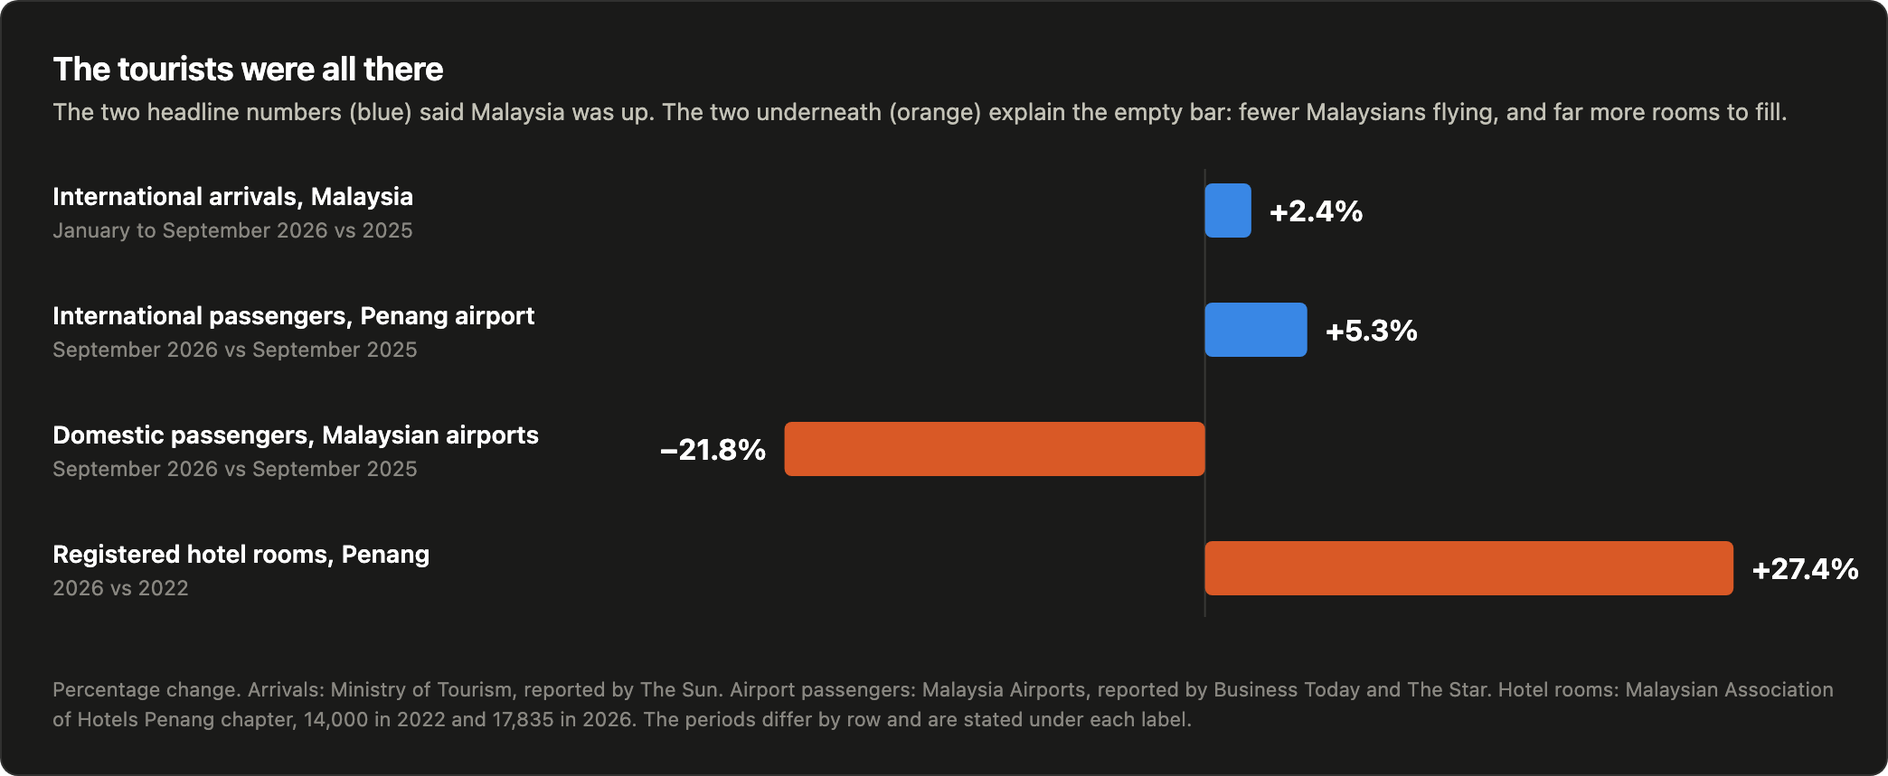
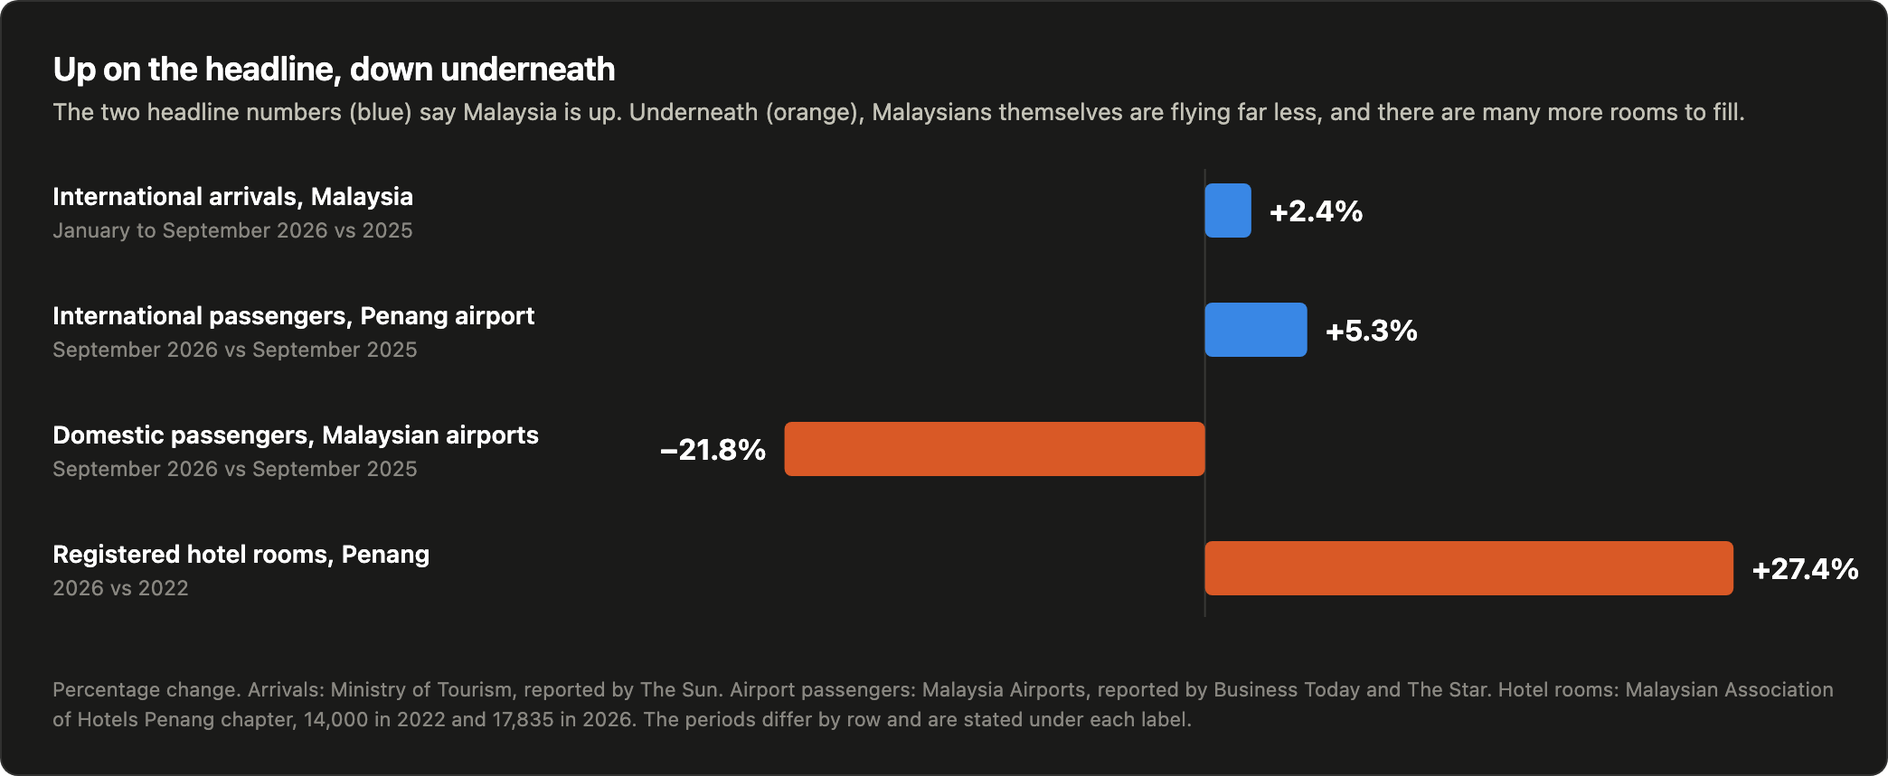
Frailty article: reframe around fuel, AI job loss and tourism economies; like-for-like hotel occupancy chart

Changed region(s): [[0.0311, 0.0605, 0.9339, 0.1816]]

diff --git a/app/writing/content/the-frailty-in-the-economics-of-ai.html b/app/writing/content/the-frailty-in-the-economics-of-ai.html
@@ -39,122 +39,122 @@
   <figcaption>In a tea plantation, I felt this counted as data.</figcaption>
 </figure>
 
-<h2>I came home with a theory</h2>
-
-<p>It was a good one. I have an economics degree and it shows.</p>
+<h2>Two blades</h2>
 
 <figure>
   <img src="/writing/the-frailty-in-the-economics-of-ai/frailty-land-rover.jpg" alt="Two travellers leaning on a green Land Rover at a hill viewpoint in the Cameron Highlands, one giving a thumbs up.">
   <figcaption>The research team, in the field. Confidence was high.</figcaption>
 </figure>
 
-<p>The war in Ukraine had dragged on for years. Then came the war between the United States and Iran, and fuel went through the roof. And on top of that, the AI boom: layoffs, hiring freezes, and a middle class, the people who take exactly this kind of trip, quietly cancelling it.</p>
+<p>I have an economics degree, so I did what we do. I drew a line from an empty bar to the global economy before the ice had melted.</p>
 
-<p>Wars, fuel, AI. Three causes, one empty bar. It had a beginning, a middle and a villain. I was ready to write it.</p>
+<p>I still think the line is right. It has two blades.</p>
 
-<p>Then I looked up the numbers, which is the half of my job I am supposed to do first.</p>
+<p>The first is fuel. When the war between the United States and Iran began, jet fuel in Singapore rose 140% in a week and touched about $230 a barrel, a record. Airlines doubled their fuel surcharges. UN Tourism, which had expected international travel to grow 3% to 4% this year, cut that to 1% to 2%. In the first half of 2026 the whole world managed 0.4%, and the second quarter went backwards. Thailand's arrivals are down 4.6% this year. Asia is still 11% short of where it was in 2019.</p>
 
-<p>Malaysia recorded 32.3 million international arrivals between January and September, up 2.4% on last year. Penang's airport carried 5.3% more international passengers in September, the month I was there, than a year earlier. The tourists I had declared missing were, on the official count, all present. Just not on a Thursday.</p>
+<p>A holiday that costs more gets taken by fewer people. That part is not complicated.</p>
 
-<p>Parts of my theory survived. Jet fuel in Singapore did hit a record, about $230 a barrel, and Thailand's arrivals are down 4.6% this year. But crude oil never reached its 2008 peak, and I could find nothing connecting AI layoffs to anyone's holiday in Penang. Malaysia's visitors come mostly from Singapore, China and Indonesia. About half of them are Singaporeans crossing a causeway, which is less a holiday than a commute with better food. None of them, as far as I can tell, were laid off by a chatbot.</p>
+<p>The second blade is the one I work with every day.</p>
 
-<p>So what had I walked into?</p>
+<h2>The blade I am holding</h2>
+
+<p>This year technology companies cut more than 206,000 jobs while putting an estimated $700 billion into AI infrastructure. Of all the job cuts announced in the United States through October, 121,401 named AI as the reason, about one in five. Stanford researchers, as reported, find employment in the occupations most exposed to AI running 19% below comparable fields.</p>
+
+<p>I am not reading about this from a safe distance. I am one of the reasons.</p>
+
+<p>I run product operations for a startup, alone, with no dedicated engineer. Last week I published an article about it. This year, with AI doing the typing, I have been the product manager, the data scientist, the data engineer, the designer, the quality analyst and three other people. I wrote, with some pride, that a few years ago each of those was a different person. Our service team now handles 2.8 times the customer moves it handled in January, with the same nine or so agents.</p>
+
+<p>Nobody was laid off. Nobody was hired either.</p>
+
+<p>My laptop tells me what the help costs. Four days of it, about 181 million tokens of reading and writing, comes to $114.37 at list price. There is no salary on earth that competes with that, and I say so as someone who would quite like to keep his.</p>
+
+<p>So count the people who did not get those jobs. They are not on a flight to Penang. They are not the second table at the highest rated restaurant on the island.</p>
+
+<h2>The fallacy</h2>
+
+<p>Economics has a name for this, and it is older than any of the technology. It is the fallacy of composition: what is sensible for one is ruinous when everyone does it.</p>
+
+<p>One company replacing a role with software is being prudent. Every company doing it at once is quietly deleting its own customers, because every wage it saves was somebody else's revenue.</p>
+
+<p>The union leader Walter Reuther used to tell a story about touring a newly automated car plant in the 1950s. An executive pointed at the machines and asked how he planned to collect union dues from them. Reuther asked how the company planned to get them to buy cars. (The version where the executive is Henry Ford II is better known and almost certainly embroidered. The question survives either way.)</p>
+
+<p>That is the frailty in the economics of AI. We are getting better at making things at exactly the rate we are getting worse at paying the people who buy them. It is progress, and it is also the other thing. A sword with two edges, and we are holding it by the blade.</p>
+
+<h2>Why the bar goes first</h2>
+
+<p>Tourism is what people buy with what is left over. Nobody cancels the rent to keep the holiday. So when incomes thin and fares rise, the trip is the first thing to go, and a place that lives on trips is the first to feel it.</p>
+
+<p>Malaysia is that kind of place. Tourism industries are 15.9% of its economy and employ 3.7 million people, 22.1% of everyone with a job. A bar in George Town is not a side effect of the economy. It is the economy.</p>
+
+<p>Statisticians, my other tribe, use the word frailty for a hidden weakness that decides who goes first when a population is put under strain. The average keeps looking healthy for a surprisingly long time, because the frail drop out quietly and the survivors are the ones still being counted.</p>
+
+<h2>What the numbers will and will not let me say</h2>
+
+<p>I would be a poor analyst if I stopped there, so here is the part that argues with me.</p>
+
+<p>Malaysia recorded 32.3 million international arrivals from January to September, up 2.4% on last year. Penang's airport carried 5.3% more international passengers in September, the month I was there. On the headline, tourism is not dying. It is fine.</p>
 
 <figure>
   <img src="/writing/the-frailty-in-the-economics-of-ai/frailty-average.png" alt="Four bars. International arrivals to Malaysia up 2.4%, international passengers at Penang airport up 5.3%, domestic passengers at Malaysian airports down 21.8%, registered hotel rooms in Penang up 27.4% since 2022.">
 </figure>
 
-<p>Domestic air travel in Malaysia fell 21.8% in September, and Penang's hotels live on domestic guests. The island has gone from 14,000 registered hotel rooms in 2022 to 17,835 now. More beds, fewer of the people who usually fill them.</p>
+<p>Then look at who is being counted. About half of those arrivals are Singaporeans crossing a causeway, which is less a holiday than a commute with better food. And domestic air travel, Malaysians flying around their own country, fell 21.8% in September. The local middle class is the customer Penang's hotels depend on, and it stayed home.</p>
 
-<p>And the ones who did come all came at once.</p>
+<p>The hotels show it, once you compare like with like.</p>
 
 <figure>
-  <img src="/writing/the-frailty-in-the-economics-of-ai/frailty-occupancy.png" alt="Hotel occupancy in Penang in 2026: about 60% on average in August, about 70% on an ordinary weekday, and 90% to 100% on a long weekend in late May.">
+  <img src="/writing/the-frailty-in-the-economics-of-ai/frailty-occupancy.png" alt="Average hotel occupancy in Malaysia: 54.9% in 2024, 56.8% in 2025, then 54.1% in the first half of 2025 against 51.2% in the first half of 2026, while room supply rose from 343,866 to 350,069.">
 </figure>
 
-<p>Penang was not dead. Penang was full on the days I was not there.</p>
+<p>Occupancy rose from 54.9% in 2024 to 56.8% in 2025. Then the first half of 2026 came in at 51.2%, against 54.1% for the same months a year earlier. The number of rooms never fell. It went up every year, from 343,866 to 350,069. In Penang the hotel association's registered rooms have grown from 14,000 in 2022 to 17,835, and its chairman put occupancy at about 60% in August.</p>
 
-<p>And in fairness to Kuala Lumpur, I also took this.</p>
+<p>More rooms, fewer of them filled, in the year the fuel went up and the hiring slowed.</p>
+
+<p>Now the honest limits. I cannot show you a line from a redundancy in San Francisco to an empty table in Penang. Nobody has that data. Some of what I saw is Penang building hotels faster than it can fill them. The Kuala Lumpur lane below was busy, and I took the photo myself. And the economists who went looking for a spike in graduate unemployment this summer did not find one.</p>
 
 <figure>
   <img src="/writing/the-frailty-in-the-economics-of-ai/frailty-kl-lane.jpg" alt="A pedestrian lane in Kuala Lumpur with café tables occupied and a crowd of people walking in the background.">
-  <figcaption>One lane, one afternoon, actual humans. It did not make it into my theory, which tells you how theories get made.</figcaption>
+  <figcaption>One lane, one afternoon, actual humans. I include it because leaving it out is how bad theories get made.</figcaption>
 </figure>
 
-<p>The To Let signs I cannot explain, and I tried. Rents on heritage shophouses are reportedly up about 20% since 2024, so some of those signs may be landlords asking for more. I do not know, which is the sentence an analyst is paid to avoid.</p>
+<p>So I am not claiming a measurement. I am claiming a direction, with a mechanism behind it and early numbers that lean the same way. That is weaker than I would like and stronger than a hunch.</p>
 
 <figure>
   <img src="/writing/the-frailty-in-the-economics-of-ai/frailty-penang-street.jpg" alt="A street in George Town in daylight: a lodge and a row of shophouses with their shutters down, and an empty road.">
   <figcaption>The middle of the day. Note the traffic.</figcaption>
 </figure>
 
-<h2>A word from the mortality tables</h2>
-
-<p>Statistics has a name for the mistake I made, and for the one the tourism board is making in the other direction.</p>
-
-<p>In 1979 three demographers, James Vaupel, Kenneth Manton and Eric Stallard, had a problem with death rates. Mortality at very old ages rose more slowly than anyone's biology said it should, as if people got tougher after 90. Anyone who has argued with a 90-year-old will find this plausible.</p>
-
-<p>They did not. The population was changing underneath the curve. Some people are more likely to die at every age, and they die first. What is left at 95 is a tougher crowd than the one that started, so the average flattens while every individual's risk keeps climbing.</p>
-
-<p>They called that hidden, unequal risk frailty. The lesson has stayed in the field ever since: you cannot read an individual off a population curve.</p>
-
-<p>Penang is a gentler cousin of that, I admit. Nobody was selected out of the data. Quiet Thursdays and packed long weekends were simply added together and divided. But the error is the same one. Plus 2.4% is real, and no bar owner on the island is living it.</p>
-
-<p>I had gone looking for a shock that hit everyone. What I found was an average with a long tail, and I had been sitting in the tail with a drink.</p>
-
-<h2>Which row am I?</h2>
-
-<p>Then I did what I should have done before blaming AI for an empty bar. I checked what AI costs me.</p>
-
-<p>My laptop keeps a log of every conversation I have with Claude Code. I added it up. Four days: about 181 million tokens read, a little under a million written. Most of the reading is the model going back over our conversation so far, which makes it the most attentive colleague I have ever had, and the most expensive. At list price, the pay-as-you-go rate, that is $114.37.</p>
-
-<p>The seat I work from is a flat fee, and it does not move when I do. The most expensive seat on a Claude Team plan lists at about $125 a month. At the pace in that log, I would get through roughly $850 of list-price work in the same month.</p>
-
-<p>In Penang I was the customer the average said was plentiful. At my desk I am the other kind of outlier, the Friday night that somebody else's quiet Tuesday pays for.</p>
-
-<p>It turns out the whole industry is priced that way.</p>
-
-<h2>The average user</h2>
-
-<p>A flat AI subscription is a bet on the average subscriber. Most people ask a few questions a day, and their $20 or $200 covers it comfortably.</p>
-
-<p>In June, SemiAnalysis bought every tier from OpenAI and Anthropic and ran them flat out on long coding tasks. The report is paywalled, so I am going on the coverage of it, which is consistent: a fully used $200 ChatGPT plan pulled about $14,000 a month of usage at list price, and the equivalent Claude plan about $8,000. On the top plans the margin is said to reach zero when a subscriber uses somewhere between 6% and 10% of what they are allowed.</p>
-
-<p>List price is not what it costs a lab to serve anyone, me included. The real cost is lower, and nobody outside knows by how much. The shape survives the caveat. The light users carry the heavy ones.</p>
-
-<figure>
-  <img src="/writing/the-frailty-in-the-economics-of-ai/frailty-plans.png" alt="Three bars: a $200 monthly plan price, about $8,000 of list-price usage from a Claude plan used flat out, and about $14,000 from a ChatGPT plan used flat out.">
-</figure>
-
-<h2>The average chip</h2>
-
-<p>Depreciation is, I promise, the interesting part.</p>
-
-<p>Every data centre has to assume how long a chip stays useful. Meta says five and a half years. Microsoft and Alphabet say six. Michael Burry says the economic life is closer to two or three, and that the gap understates the industry's depreciation by about $176 billion between 2026 and 2028. He has not published his working, which would have cost me marks, and rental prices for older chips, reported this month, cut against him.</p>
-
-<p>Both sides are arguing over one number, and here the word fits exactly: a chip's useful life is a survival curve. Some will earn rent for seven years on dull workloads. Some will be stranded in three. Six years is an average over a fleet.</p>
-
-<h2>The average quarter</h2>
-
-<p>The cloud giants get quoted as one balance sheet. Last quarter Alphabet ran free cash flow of minus $9.1 billion. Microsoft, in the same race, was plus $18.6 billion.</p>
-
-<p>And they hold each other up. Nvidia put $30 billion into OpenAI and guaranteed up to $105 billion for one of its data centres. OpenAI buys compute from Oracle. Oracle buys chips from Nvidia. It is three friends settling a dinner bill by passing the same note around the table.</p>
-
-<p>Survival analysis has a name for that as well: shared frailty. It is the term you add when the individuals in a study are not independent, when one family's bad year is every member's bad year. In a market it means the risks you were averaging over do not average out.</p>
-
 <h2>The principle</h2>
 
-<p>Every price built on an average is a loan from the light users to the heavy ones. Loans get called.</p>
+<p>Every job a machine takes is also a customer some other business loses.</p>
 
-<p>I do not think that makes AI a bubble, any more than one empty bar made Penang dead. A bubble is a claim about everyone at once. Frailty is a claim about who goes first: the heaviest users on the flattest plans, the chips with the shortest real lives, the balance sheet that needed every quarter to be an average one. It has started. In October the same firm found that OpenAI had roughly halved what its $200 plan delivers. Nobody announced the end of a subsidy. The allowance simply moved.</p>
+<p>We keep the two ledgers in different buildings. One has the productivity gain, the 2.8 times, the $114 that did four days of work. The other has an empty bar with a band's microphone set out for nobody. They are the same transaction, entered twice.</p>
 
-<p>So find out which side of the average you are on, before the people who set the price do.</p>
+<p>I do not know how to put the sword down. I use it every day and I am good with it. But I have stopped believing it only cuts one way.</p>
 
-<p>The sign said FULLY BOOKED. On average, it probably is.</p>
+<p>The sign said FULLY BOOKED. The spreadsheet that paid for the sign probably agreed.</p>
 
 <p><strong>Sources</strong></p>
 
-<p>Vaupel, Manton and Stallard, "The Impact of Heterogeneity in Individual Frailty on the Dynamics of Mortality", Demography, 1979</p>
+<p><a href="https://finance.yahoo.com/news/jet-cracks-soar-record-highs-160000900.html" target="_blank" rel="noopener">Jet cracks soar to record highs as Iran war breaks fuel markets</a>, Yahoo Finance</p>
+
+<p><a href="https://www.euronews.com/travel/2026/06/01/higher-airfares-and-fewer-visitors-how-the-iran-conflict-is-hitting-southeast-asia-tourism" target="_blank" rel="noopener">Higher airfares and fewer visitors: how the Iran conflict is hitting Southeast Asia tourism</a>, Euronews</p>
+
+<p><a href="https://www.travelweek.ca/news/destinations/international-tourism-edges-up-0-4-in-first-half-of-2026-un-tourism/" target="_blank" rel="noopener">International tourism edges up 0.4% in first half of 2026</a>, reporting UN Tourism</p>
+
+<p><a href="https://english.news.cn/20260918/105bdbdeb1794426be1d2d61b4bcacc9/c.html" target="_blank" rel="noopener">UN Tourism lowers 2026 global international arrivals growth forecast to 1 to 2 percent</a>, Xinhua</p>
+
+<p><a href="https://www.latintimes.com/ai-cited-us-tech-layoffs-2026-601307" target="_blank" rel="noopener">Tech companies cut more than 206,000 jobs this year while pouring an estimated $700 billion into AI infrastructure</a>, Latin Times</p>
+
+<p><a href="https://invezz.com/news/2026/11/12/ai-layoffs-2026-so-far-job-cuts-firms-jobs-regions/" target="_blank" rel="noopener">AI layoffs in 2026 so far: 121,401 US job cuts</a>, reporting Challenger, Gray and Christmas</p>
+
+<p><a href="https://washingtonmonthly.com/2026/05/29/ai-entry-level-jobs-college-graduates/" target="_blank" rel="noopener">How AI Broke the Entry-Level Job</a>, Washington Monthly</p>
+
+<p><a href="https://www.forbes.com/sites/robertszczerba/2026/10/19/ai-is-taking-entry-level-jobs-whos-training-your-next-ceo/" target="_blank" rel="noopener">AI Is Taking Entry-Level Jobs. Who's Training Your Next CEO?</a>, Forbes</p>
+
+<p><a href="https://quoteinvestigator.com/2011/11/16/robots-buy-cars" target="_blank" rel="noopener">Dialogue origin: "How will you get robots to buy cars?"</a>, Quote Investigator</p>
+
+<p><a href="https://www.thestar.com.my/news/nation/2026/09/15/tourism-industry-generates-rm323bil-159-of-gdp-in-2025" target="_blank" rel="noopener">Tourism industry generates RM323bil, 15.9% of GDP in 2025</a>, The Star</p>
 
 <p><a href="https://thesun.my/news/malaysia-32-3m-international-visitor-arrivals-in-2026/" target="_blank" rel="noopener">Malaysia records 32.3m international arrivals in nine months</a>, The Sun</p>
 
@@ -162,34 +162,10 @@
 
 <p><a href="https://www.thestar.com.my/business/business-news/2026/10/26/traffic-slows-in-malaysia-airports-in-september-amid-soft-domestic-demand" target="_blank" rel="noopener">Traffic slows in Malaysia airports in September amid soft domestic demand</a>, The Star</p>
 
+<p><a href="https://data.tourism.gov.my/frontend/pdf/Infographic_paid_accommodation_performance_jan-dec2025.pdf" target="_blank" rel="noopener">Paid accommodation survey, January to December 2025</a>, Tourism Malaysia</p>
+
+<p><a href="https://tripdataset.com/malaysia-tourism" target="_blank" rel="noopener">Malaysia Tourism Dashboard 2026</a>, first half of 2026 occupancy</p>
+
 <p><a href="https://www.thestar.com.my/news/nation/2026/08/20/penang-hotels-expecting-higher-occupancy-rates" target="_blank" rel="noopener">Penang hotels expecting higher occupancy rates</a>, The Star</p>
 
-<p><a href="https://www.malaymail.com/news/malaysia/2026/05/31/tourists-pour-into-penang-for-long-weekend-getaway-hotel-occupancy-hits-up-to-100pc/222081" target="_blank" rel="noopener">Tourists pour into Penang for long weekend getaway</a>, Malay Mail</p>
-
-<p><a href="https://www.thevibes.com/articles/news/108028/penang-hoteliers-call-for-extensive-marketing-ahead-of-vmy2026" target="_blank" rel="noopener">Penang hoteliers call for extensive marketing</a>, The Vibes</p>
-
-<p><a href="https://theedgemalaysia.com/node/814579" target="_blank" rel="noopener">George Town heritage properties back in vogue as rents, prices surge</a>, The Edge</p>
-
 <p><a href="https://greatermalaysia.com/stories/who-visits-malaysia" target="_blank" rel="noopener">Who visits Malaysia? Tourist arrivals by country</a></p>
-
-<p><a href="https://finance.yahoo.com/news/jet-cracks-soar-record-highs-160000900.html" target="_blank" rel="noopener">Jet cracks soar to record highs as Iran war breaks fuel markets</a>, Yahoo Finance</p>
-
-<p><a href="https://www.euronews.com/travel/2026/06/01/higher-airfares-and-fewer-visitors-how-the-iran-conflict-is-hitting-southeast-asia-tourism" target="_blank" rel="noopener">How the Iran conflict is hitting Southeast Asia tourism</a>, Euronews</p>
-
-<p><a href="https://sessionwatcher.com/guides/claude-team-pricing" target="_blank" rel="noopener">Claude Team plan pricing, standard and premium seats</a></p>
-
-<p><a href="https://scienceblog.com/m-a-200-chatgpt-pro-subscription-could-represent-as-much-as-14-000-a-month-in-equivalent-api-priced-usage-if-pushed-to-its-limits-according-to-semianalysis-a-striking-illustration-of/" target="_blank" rel="noopener">A $200 ChatGPT Pro subscription could represent as much as $14,000 a month in equivalent usage</a>, coverage of the SemiAnalysis study</p>
-
-<p><a href="https://www.cryptopolitan.com/anthropic-and-openai-subscriptions-offer-thousands-in-api-equivalent-usage-squeezing-ai-margins/" target="_blank" rel="noopener">Anthropic and OpenAI subscriptions offer thousands in equivalent usage, squeezing AI margins</a>, Cryptopolitan</p>
-
-<p><a href="https://www.metirai.com/blog/claude-vs-chatgpt-subscription-value-semianalysis-5x-2026" target="_blank" rel="noopener">Claude vs ChatGPT Subscriptions: SemiAnalysis Finds a 5x Value Gap</a></p>
-
-<p><a href="https://x.com/michaeljburry/status/1987918650104283372" target="_blank" rel="noopener">Michael Burry on depreciation and useful lives</a>, November 2025</p>
-
-<p><a href="https://interestingengineering.substack.com/p/why-michael-burry-is-wrong-about" target="_blank" rel="noopener">Why Michael Burry Is Wrong About AI Depreciation (But Still Might Be Right)</a></p>
-
-<p><a href="https://247wallst.com/investing/2026/11/15/michael-burry-warned-ai-chips-would-lose-value-fast-new-data-suggests-he-was-wrong/" target="_blank" rel="noopener">Michael Burry Warned AI Chips Would Lose Value Fast. New Data Suggests He Was Wrong</a>, 24/7 Wall St.</p>
-
-<p><a href="https://www.universalassetowners.com/newsroom/hyperscaler-q3-capex-debt-equity-leases/" target="_blank" rel="noopener">Hyperscalers lean on debt, share sales and leases as Alphabet's capex hits $51.4bn</a></p>
-
-<p><a href="https://phys.org/news/2026-10-paying-circular-money-machine-ai.html" target="_blank" rel="noopener">Who's paying whom? The circular money machine behind the AI boom</a></p>

diff --git a/app/writing/articles.ts b/app/writing/articles.ts
@@ -26,12 +26,12 @@ export const articles: Article[] = [
     slug: "the-frailty-in-the-economics-of-ai",
     title: "The Frailty in the Economics of AI",
     subtitle:
-      "I walked into an empty bar in Penang and blamed two wars and the AI boom. The data said the tourists were all there. The same statistical mistake is holding up the price of AI.",
+      "AI is making companies richer by making their customers poorer, fuel is making every trip dearer, and the towns that live on other people's spare income feel it first. I saw it from an empty bar in Penang.",
     topic: "AI · Economics · Statistics",
     date: "November 2026",
     readTime: "8 min read",
     excerpt:
-      "The neon sign said FULLY BOOKED and we were the first customers of the day. I blamed wars, fuel and AI layoffs, then checked the numbers: arrivals were up. What a 1979 demography paper says about averages, and why flat AI pricing rests on the same one.",
+      "The neon sign said FULLY BOOKED and we were the first customers of the day. Fuel at a record, 206,000 tech jobs cut in a year of $700 billion spent on AI, and a fallacy older than both: every job a machine takes is a customer some other business loses.",
     color: "#f87171",
     cover: "/writing/the-frailty-in-the-economics-of-ai/frailty-cover-fully-booked.jpg",
     thumb: "/writing/the-frailty-in-the-economics-of-ai/thumb.jpg",
